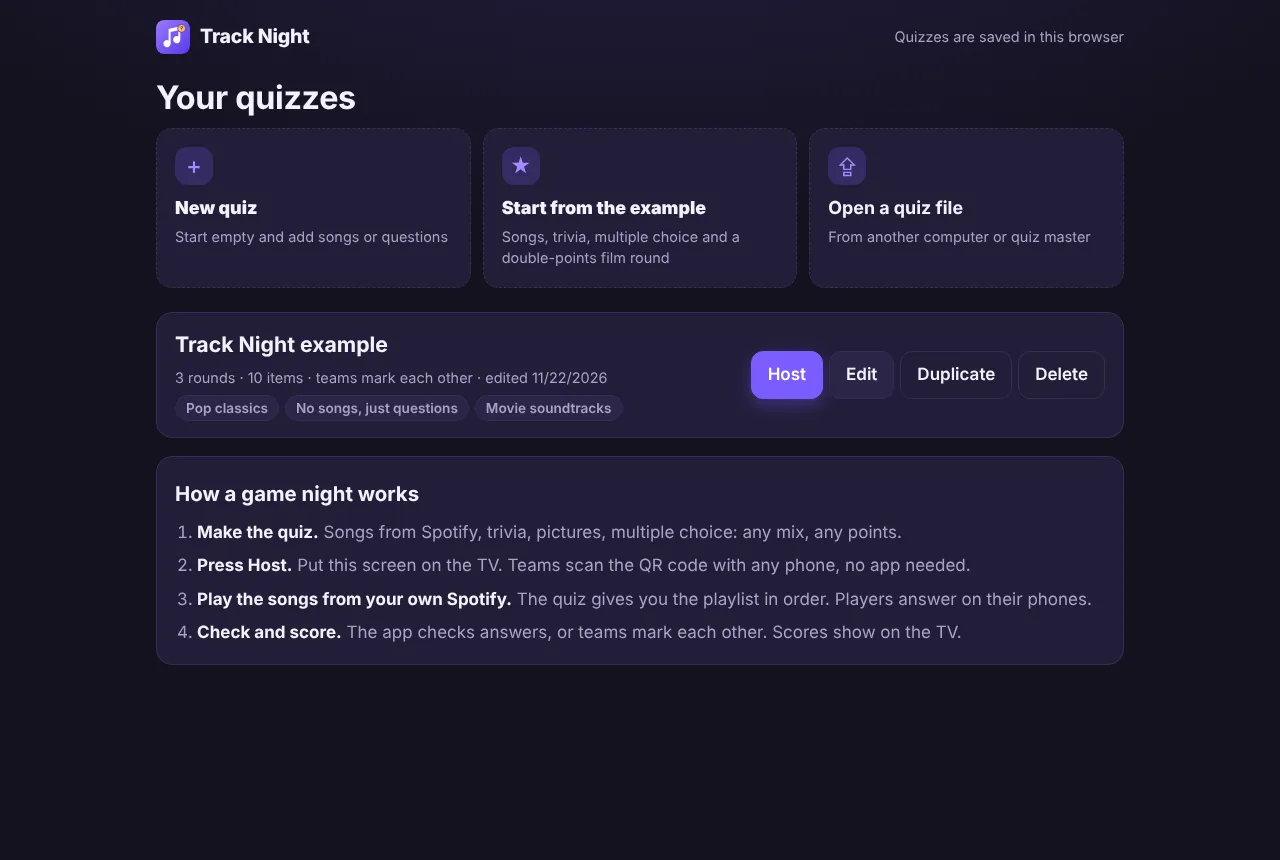
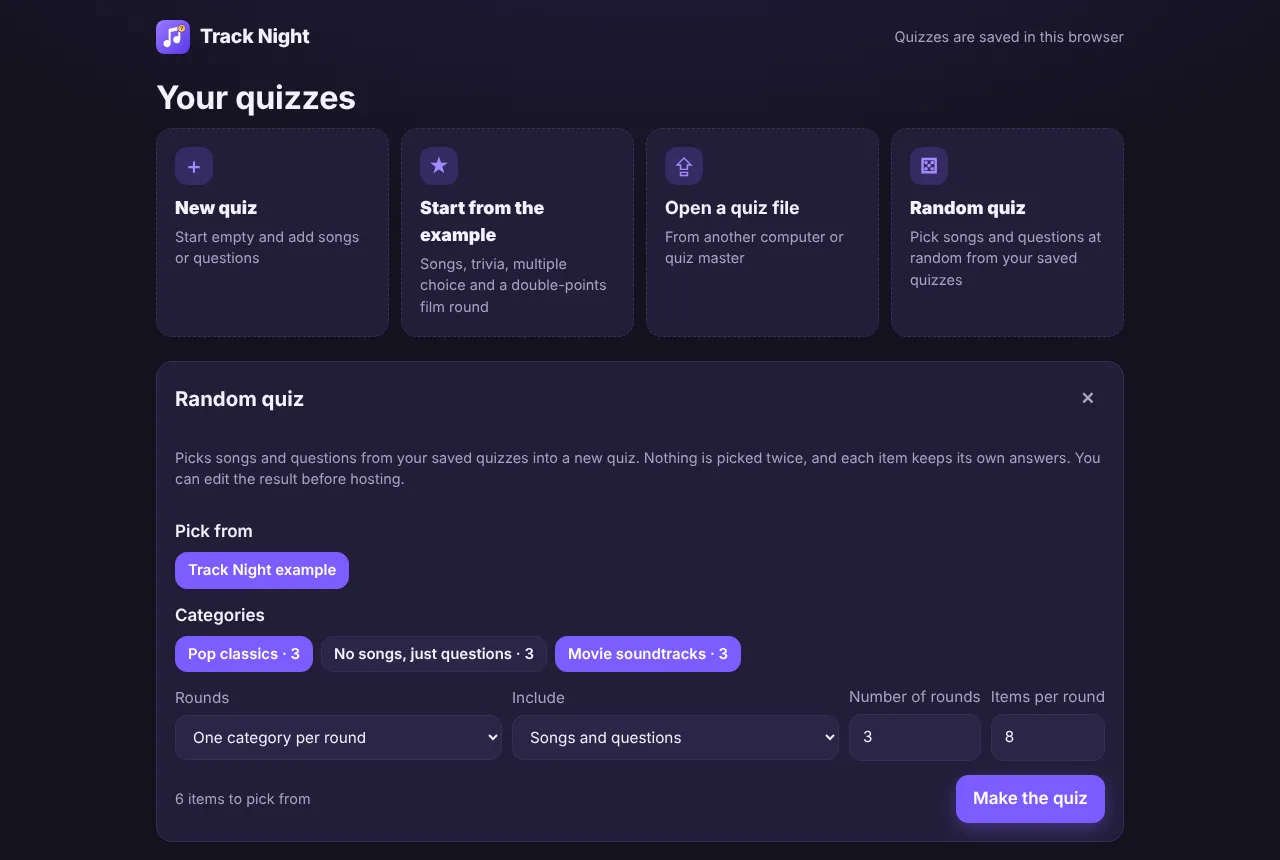
Add Random quiz to the feature list and quiz-list screenshot (#1)
Matches the app change in music-quiz-app PR #2. No privacy change:
random quizzes are built and saved in the browser like other quizzes.

Claude-Session: https://claude.ai/code/session_01StYdww9nuKnYPwEL9S93gE

Changed region(s): [[0.125, 0.1512, 0.875, 0.9977], [0.7812, 0.6953, 0.8438, 0.7256], [0.1562, 0.2721, 0.1875, 0.3023]]

diff --git a/index.html b/index.html
@@ -74,7 +74,7 @@
       <div class="shots">
         <figure class="shot"><img src="img/builder.webp" alt="Quiz editor with a trivia round holding a multiple-choice question about Freddie Mercury, with Queen ticked as the right option" width="1280" height="860" loading="lazy"><figcaption>Make any quiz: songs or trivia, text, number or multiple-choice answers, pictures, points and timers.</figcaption></figure>
         <div class="row">
-          <figure class="shot"><img src="img/quizzes.webp" alt="Your quizzes page with buttons for a new quiz, the example quiz and opening a quiz file, and a saved quiz with Host, Edit, Duplicate and Delete" width="1280" height="860" loading="lazy"><figcaption>All your quizzes in one place. Press Host and you're live.</figcaption></figure>
+          <figure class="shot"><img src="img/quizzes.webp" alt="Your quizzes page with buttons for a new quiz, the example quiz, opening a quiz file and a random quiz, and the Random quiz panel with categories, round style and counts" width="1280" height="860" loading="lazy"><figcaption>All your quizzes in one place, or roll a random quiz from them.</figcaption></figure>
           <figure class="shot"><img src="img/lobby.webp" alt="TV lobby with a big QR code, the join code and three teams with their players" width="1280" height="860" loading="lazy"><figcaption>The TV shows the QR code and every team as it arrives.</figcaption></figure>
         </div>
         <div class="row">
@@ -102,6 +102,7 @@
         <li><b>Forgiving answer checking</b><span>Typos, "The", accents and "feat." are handled. Close calls go to you, and years within one year earn half points.</span></li>
         <li><b>Peer review mode</b><span>Each team marks the next team's sheet, and teams can flag a mark for the quiz master to decide.</span></li>
         <li><b>A library of quizzes</b><span>Keep as many quizzes as you like, start from the example, duplicate last month's, or save one as a file to share.</span></li>
+        <li><b>Random quiz</b><span>Build a fresh quiz from songs and questions picked at random from your saved quizzes: one category per round or all mixed, with no repeats.</span></li>
         <li><b>Made for the TV</b><span>Full-screen host view with big numbers, the question and picture, a countdown, and who has answered.</span></li>
         <li><b>Answers stay hidden</b><span>Players never receive the answer key, pictures only appear when their question starts, and the host screen hides the answer until you choose to show it.</span></li>
       </ul>
